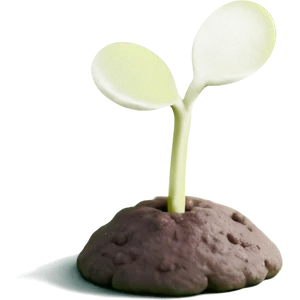
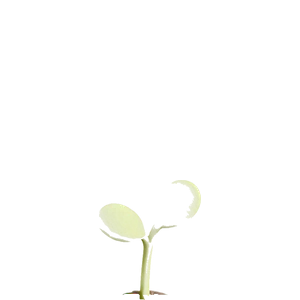
Crops grow in the beds the plate draws: measured bed grid, mound-free sprites, a row of three per bed
- the bed grid was rotated against farm-v1.webp (four beds along the plate's short edge); T, E1, E2 are now fitted to the
  twelve soil centres measured from the plate (within 0.7 of each), and she tends a bed from the nearer front edge, with
  a tie going right because the basket sits at the front-left corner (Jamie, 22 Oct: "it doesnt tally to the bed")
- the stage sprites lose their own soil mound (largest brown blob cut on its wide rows, rim and soil texture below the
  old mound line removed, only plant-connected pixels kept), are scaled by stage and bottom-aligned at the stem's foot
- each planted bed shows a row of three along its long side, beds drawn back to front; a soft dimple, the wet patch and
  weeds sit at the plants' feet; the bed card shows the same row on a soil patch
- Codex P2: completed cycle milestones read dark plum on their pale gradient; P3: journal.html's provenance badge keeps
  its .srcchip selector; the sign-in wall test checks daytime colours hold after sunset

diff --git a/ovu-farm.js b/ovu-farm.js
@@ -33,14 +33,17 @@
     shelf: { name: 'Seed shelf', note: '5 free seeds a day.', cost: 150, icon: 'shelves' },
     bigcan: { name: 'Big watering can', note: 'Waters every bed at once.', cost: 120, icon: 'water_drop' }
   };
-  /* the bed grid on the plate: corner A (left), B (top), C (right); four beds along AB, three along BC */
-  var A = { x: 24, y: 53 }, B = { x: 51, y: 41 }, C = { x: 81, y: 54 };
-  function bedAt(i, j) { var u = (i + 0.5) / 4, v = (j + 0.5) / 3; return { x: round(A.x + u * (B.x - A.x) + v * (C.x - B.x)), y: round(A.y + u * (B.y - A.y) + v * (C.y - B.y)) }; }
-  /* she tends a bed from the slab's margin: the front-left edge for the beds nearer it, the front-right edge otherwise */
+  /* the bed grid as the plate draws it (measured from farm-v1.webp's soil, 22 Oct: Jamie, "it doesnt tally to the bed"):
+     four beds run from the top bed down to the right (i), three from the top bed down to the left (j). T is the top bed's
+     soil centre, E1 one bed along i, E2 one bed along j, all in plate percent; the fit is within 0.7 of every measured centre */
+  var T = { x: 48.72, y: 45.46 }, E1 = { x: 8.64, y: 3.72 }, E2 = { x: -7.83, y: 3.45 };
+  function at(u, v) { return { x: round(T.x + u * E1.x + v * E2.x), y: round(T.y + u * E1.y + v * E2.y) }; }
+  function bedAt(i, j) { return at(i, j); }
+  /* she tends a bed from the slab's margin: the front-left edge (past the last row along j) or the front-right edge (past
+     the last row along i), whichever is nearer; beds in one line share that stand */
   function standFor(i, j) {
-    var u = (i + 0.5) / 4, v = (j + 0.5) / 3;
-    if (i <= 2 - j) return { x: round(A.x - 0.3 * (B.x - A.x) + v * (C.x - B.x)), y: round(A.y - 0.3 * (B.y - A.y) + v * (C.y - B.y)), flip: false };
-    return { x: round(A.x + u * (B.x - A.x) + 1.24 * (C.x - B.x)), y: round(A.y + u * (B.y - A.y) + 1.24 * (C.y - B.y)), flip: true };
+    if (2 - j < 3 - i) { var p = at(i, 2.95); return { x: p.x, y: p.y, flip: false }; } /* a tie goes right: the basket sits at the front-left corner */
+    var q = at(3.95, j); return { x: q.x, y: q.y, flip: true };
   }
   function round(n) { return Math.round(n * 10) / 10; }
   var BEDS = []; for (var jj = 0; jj < 3; jj++) for (var ii = 0; ii < 4; ii++) BEDS.push({ id: 'bed' + (jj * 4 + ii + 1), i: ii, j: jj, at: bedAt(ii, jj), wp: standFor(ii, jj) });
@@ -259,22 +262,25 @@
   function cropSprite(k, st) { return st >= 3 ? k + '-ripe' : st === 2 ? k + '-grow' : 'seedling'; }
   function bedArt(b, id, day) {
     var st = stage(b), weeds = hasWeeds(b, id, day), wet = wateredToday(b, day), crop = b && b.crop ? CROPS[b.crop] : null;
-    var s = crop && st >= 1 ? '<img class="bedcrop" src="assets/room/farm/crops/' + cropSprite(b.crop, st) + '.webp" alt="" draggable="false">' : '';
-    s += '<svg class="bedover" viewBox="0 0 100 100" xmlns="http://www.w3.org/2000/svg" aria-hidden="true">';
-    if (wet) s += '<ellipse cx="50" cy="91" rx="34" ry="8" fill="rgba(70,50,120,.22)"/>';
-    if (weeds) { [22, 48, 74].forEach(function (x) { s += '<path d="M' + x + ' 94 c -4 -8, -2 -14, 2 -18 M' + x + ' 94 c 4 -8, 7 -12, 10 -14 M' + x + ' 94 c -1 -10, 3 -16, 5 -20" stroke="#6f9a62" stroke-width="3" fill="none" stroke-linecap="round"/>'; }); }
-    return s + '</svg>';
+    /* three plants in a row along the bed (its long side runs along E1), drawn back to front */
+    var s = '';
+    if (crop && st >= 1) [['back', -1], ['mid', 0], ['front', 1]].forEach(function (k) { s += '<img class="bedcrop ' + k[0] + '" src="assets/room/farm/crops/' + cropSprite(b.crop, st) + '.webp" alt="" draggable="false">'; });
+    var o = '<svg class="bedover" viewBox="0 0 100 100" xmlns="http://www.w3.org/2000/svg" aria-hidden="true">';
+    if (crop && st >= 1) o += '<ellipse cx="50" cy="99" rx="' + (st >= 3 ? 26 : st === 2 ? 20 : 12) + '" ry="' + (st >= 3 ? 6 : 4.5) + '" fill="rgba(74,40,30,.28)"/>';
+    if (wet) o += '<ellipse cx="50" cy="99" rx="38" ry="8" fill="rgba(70,50,120,.22)"/>';
+    if (weeds) { [18, 50, 82].forEach(function (x) { o += '<path d="M' + x + ' 100 c -4 -8, -2 -14, 2 -18 M' + x + ' 100 c 4 -8, 7 -12, 10 -14 M' + x + ' 100 c -1 -10, 3 -16, 5 -20" stroke="#6f9a62" stroke-width="3" fill="none" stroke-linecap="round"/>'; }); }
+    return o + '</svg>' + s;
   }
   function renderBeds() {
     if (!inFarm(R.layout())) return;
     var wrap = R.els.props, day = today();
     Array.prototype.slice.call(wrap.querySelectorAll('.bed')).forEach(function (el) { el.remove(); });
     var f = farmState(S);
-    BEDS.forEach(function (bb) {
+    BEDS.slice().sort(function (a, b) { return a.at.y - b.at.y; }).forEach(function (bb) {
       var el = doc.createElement('button'); el.type = 'button'; el.className = 'bed'; el.dataset.id = bb.id;
       var b = f.beds[bb.id], label = 'Bed ' + (BEDS.indexOf(bb) + 1) + ': ' + (b && b.crop ? CROPS[b.crop].name.toLowerCase() + (ripe(b) ? ', ripe' : ', growing, ' + growthDays(b) + ' of ' + CROPS[b.crop].days + ' watered days' + (wateredToday(b, day) ? ', watered today' : ', not watered today')) : 'empty');
       el.setAttribute('aria-label', label + (hasWeeds(b, bb.id, day) ? ', weeds' : ''));
-      el.style.left = bb.at.x + '%'; el.style.top = bb.at.y + '%'; el.style.width = '10.5%'; /* the sprite's mound fills most of the plate's bed */
+      el.style.left = bb.at.x + '%'; el.style.top = bb.at.y + '%'; el.style.width = '13%'; /* the middle plant's base sits on the bed's soil centre */
       el.innerHTML = bedArt(b, bb.id, day);
       el.addEventListener('click', function (e) { e.stopPropagation(); e.preventDefault(); goTend(bb); });
       wrap.appendChild(el);

diff --git a/room.css b/room.css
@@ -1666,8 +1666,9 @@ body.btap-open{overflow:hidden}
 @media (prefers-reduced-motion: reduce){.zonename,.nearpill,.gamehud .gh-stam b{transition:none}}
 
 /* ---------- the farm (ovu-farm.js): beds drawn on the plate, the bed and shed sheets ---------- */
-.bed{position:absolute;transform:translate(-50%,-86%);aspect-ratio:1;background:none;border:0;padding:0;cursor:pointer;pointer-events:auto;filter:drop-shadow(0 3px 4px rgba(70,40,100,.16))}
-.bed .bedcrop,.bedpic .bedcrop{position:absolute;left:0;bottom:0;width:100%;height:auto;display:block;pointer-events:none}
+.bed{position:absolute;transform:translate(-50%,-100%);aspect-ratio:1;background:none;border:0;padding:0;cursor:pointer;pointer-events:auto;filter:drop-shadow(0 3px 4px rgba(70,40,100,.16))}
+.bed .bedcrop,.bedpic .bedcrop{position:absolute;left:22.5%;bottom:0;width:55%;height:auto;display:block;pointer-events:none}
+.bed .bedcrop.back,.bedpic .bedcrop.back{left:2.5%;bottom:10.8%}.bed .bedcrop.front,.bedpic .bedcrop.front{left:42.5%;bottom:-10.8%}
 .bed .bedover,.bedpic .bedover{position:absolute;inset:0;width:100%;height:100%;display:block;overflow:visible;pointer-events:none}
 .bed:focus-visible{outline:2px solid #fff;outline-offset:2px;border-radius:10px}
 .bedcard{display:flex;gap:12px;align-items:center;background:var(--rm-card,#fff);border-radius:16px;padding:12px;margin-top:4px}
@@ -1692,7 +1693,8 @@ body.btap-open{overflow:hidden}
 .snapbtns + .help,.snapbtns ~ p.help{margin-top:12px;line-height:1.5}
 .phasechips{display:flex;flex-wrap:wrap;gap:8px;margin:4px 0 12px}
 /* the bed card shows soil, not a blank square */
-.bedcard .bedpic{background:linear-gradient(180deg,#f8f1fd,#efe4f7)}
+.bedcard .bedpic{overflow:hidden;background:radial-gradient(ellipse 46% 20% at 50% 74%,#8a5a44 0 62%,#6e4535 64% 100%,transparent 102%),linear-gradient(180deg,#f8f1fd,#efe4f7)}
+.bedpic .bedover{transform:translateY(-24%)}.bedpic .bedcrop{bottom:24%}.bedpic .bedcrop.back{bottom:33%}.bedpic .bedcrop.front{bottom:15%}
 
 /* plaza servers (ovu-plaza.js): a pill in screen space while she is in the plaza, and the chooser sheet */
 .plazapill{position:absolute;left:10px;top:12px;z-index:7;display:inline-flex;align-items:center;gap:6px;max-width:calc(100% - 120px);padding:7px 12px 7px 9px;border:1.5px solid rgba(255,255,255,.9);border-radius:99px;background:rgba(255,255,255,.86);backdrop-filter:blur(8px);box-shadow:0 4px 14px rgba(80,50,110,.14);font:800 12px var(--sans);color:var(--rm-ink);cursor:pointer}
@@ -2113,7 +2115,7 @@ html[data-text] :is(.deck,.nav,.sheet,.welcome,.toast,.mpanel,.podmini,.luna,.lo
 .ready .dots{display:flex;align-items:flex-start;justify-content:space-between;gap:6px;margin:4px 0 8px}
 .ready .dot{flex:1;display:flex;flex-direction:column;align-items:center;gap:4px;position:relative}
 .ready .dot i{width:40px;height:40px;border-radius:50%;border:2px solid #d9cdee;background:#fff;display:flex;align-items:center;justify-content:center;font:800 15px var(--sans);color:#a394bd;font-style:normal}
-.ready .dot.on i{background:linear-gradient(135deg,#c8a9ee,#e9b5d0);border-color:transparent;color:#fff}
+.ready .dot.on i{background:linear-gradient(135deg,#c8a9ee,#e9b5d0);border-color:transparent;color:#2a1d44} /* dark plum on the pale gradient (Codex, 22 Oct: white was under 2:1) */
 .ready .dot em{font:700 10px/1.2 var(--sans);font-style:normal;color:var(--rm-ink-2);text-align:center}
 .ready .dot+.dot::before{content:"";position:absolute;left:-50%;right:50%;top:20px;height:2px;background:#e4dbf2;z-index:-1}
 .ready p{margin:0;font:600 13px/1.45 var(--sans);color:var(--rm-ink)}

diff --git a/tools/test-core.js b/tools/test-core.js
@@ -548,7 +548,8 @@ function addDays(d, n) { var t = new Date(d + 'T00:00:00Z'); t.setUTCDate(t.getU
   var shown = F.waterAll(S, t, null, { can: true, ids: tg });
   check('watering all waters exactly the beds she was shown', shown.ok && shown.n === 2 && !F.wateredToday(F.bed(S, d2[1]), t) === (d2.length > 2 && d2[1] !== tg[1]) && F.wateredToday(F.bed(S, last), t) && F.canLevel(S) === 10);
   var src = fs.readFileSync(path.join(root, 'ovu-farm.js'), 'utf8');
-  check('farm beds draw rendered stage pictures (Jamie, 22 Oct: "aesthetic can be better and realistic"): a shared seedling, then every crop half grown and ripe exist as sprites, picked by stage; weeds and the water drop stay as an overlay', Object.keys(F.CROPS).every(function (k) { return fs.existsSync(path.join(root, 'assets/room/farm/crops', k + '-grow.webp')) && fs.existsSync(path.join(root, 'assets/room/farm/crops', k + '-ripe.webp')); }) && fs.existsSync(path.join(root, 'assets/room/farm/crops/seedling.webp')) && F.cropSprite('tomato', 1) === 'seedling' && F.cropSprite('tomato', 2) === 'tomato-grow' && F.cropSprite('tomato', 3) === 'tomato-ripe' && /class="bedcrop" src="assets\/room\/farm\/crops\/' \+ cropSprite\(b\.crop, st\)/.test(src) && /class="bedover"/.test(src) && /if \(weeds\)/.test(src) && /if \(wet\)/.test(src) && src.indexOf('bedSVG') < 0);
+  check('Codex (22 Oct, after the night palette went): completed cycle milestones read dark on their pale gradient, and the journal provenance badge keeps its own selector', /\.ready \.dot\.on i\{[^}]*color:#2a1d44\}/.test(fs.readFileSync(path.join(root, 'room.css'), 'utf8')) && /\}\.srcchip\{/.test(fs.readFileSync(path.join(root, 'journal.html'), 'utf8')) && !/html\.srcchip/.test(fs.readFileSync(path.join(root, 'journal.html'), 'utf8')));
+  check('farm beds draw rendered stage pictures (Jamie, 22 Oct: "aesthetic can be better and realistic"): a shared seedling, then every crop half grown and ripe exist as sprites, picked by stage; weeds and the water drop stay as an overlay', Object.keys(F.CROPS).every(function (k) { return fs.existsSync(path.join(root, 'assets/room/farm/crops', k + '-grow.webp')) && fs.existsSync(path.join(root, 'assets/room/farm/crops', k + '-ripe.webp')); }) && fs.existsSync(path.join(root, 'assets/room/farm/crops/seedling.webp')) && F.cropSprite('tomato', 1) === 'seedling' && F.cropSprite('tomato', 2) === 'tomato-grow' && F.cropSprite('tomato', 3) === 'tomato-ripe' && /class="bedcrop ' \+ k\[0\] \+ '" src="assets\/room\/farm\/crops\/' \+ cropSprite\(b\.crop, st\)/.test(src) && /class="bedover"/.test(src) && /if \(weeds\)/.test(src) && /if \(wet\)/.test(src) && src.indexOf('bedSVG') < 0);
   check('the bed sheet waters from the can, with the well one tap away when it is empty', src.indexOf("res = pour(S, id, t, ST)") > -1 && src.indexOf('data-bed="well"') > -1 && src.indexOf('Fill the can at the well') > -1 && src.indexOf("res = water(S, id, now)") < 0);
   check('care steps are slow and stoppable, and save only when the bar is full and the sheet still open', (function () { var care = fs.readFileSync(path.join(root, 'ovu-care.js'), 'utf8'); return /function step[\s\S]*?!box\.isConnected \|\| !R\.sheetOpen\(\) \|\| here\(\) !== tok\.scene[\s\S]*?asleepNow\(\)/.test(care) && care.indexOf('data-slow="stop"') > -1 && src.indexOf("scene: 'farm'") > -1; })() && true);
 })();

diff --git a/journal.html b/journal.html
@@ -10,7 +10,7 @@
 <link href="https://fonts.googleapis.com/css2?family=Newsreader:opsz,wght@6..72,400;6..72,500;6..72,600&family=Manrope:wght@400;600;700;800&family=Material+Symbols+Outlined:opsz,wght,FILL,GRAD@24,400,0..1,0" rel="stylesheet">
 <link rel="stylesheet" href="ovu-pages.css">
 <link rel="stylesheet" href="ovu-night.css">
-<style>.carecard{margin:10px 0;padding:14px;border-radius:16px;background:#fff4f6;border:1.5px solid #e8a0b4;color:#4a2b3a;font:600 13.5px/1.5 var(--sans,Manrope,sans-serif)}.carecard b{display:block;font-size:15px;margin-bottom:4px}.carecard p{margin:6px 0}.carecard .row{display:flex;flex-wrap:wrap;gap:8px;margin:8px 0}.carecard small{display:block;opacity:.8;font-size:11.5px}html.srcchip{display:inline-block;margin-left:6px;vertical-align:1px;font:800 9px var(--sans,Manrope,sans-serif);letter-spacing:.05em;text-transform:uppercase;font-style:normal;color:var(--rm-plum,#5a4274);background:var(--rm-lilac-2,#e7dcf5);border-radius:99px;padding:2px 7px}</style>
+<style>.carecard{margin:10px 0;padding:14px;border-radius:16px;background:#fff4f6;border:1.5px solid #e8a0b4;color:#4a2b3a;font:600 13.5px/1.5 var(--sans,Manrope,sans-serif)}.carecard b{display:block;font-size:15px;margin-bottom:4px}.carecard p{margin:6px 0}.carecard .row{display:flex;flex-wrap:wrap;gap:8px;margin:8px 0}.carecard small{display:block;opacity:.8;font-size:11.5px}.srcchip{display:inline-block;margin-left:6px;vertical-align:1px;font:800 9px var(--sans,Manrope,sans-serif);letter-spacing:.05em;text-transform:uppercase;font-style:normal;color:var(--rm-plum,#5a4274);background:var(--rm-lilac-2,#e7dcf5);border-radius:99px;padding:2px 7px}</style>
 <script src="ovu-sky.js"></script>
 </head>
 <body>

diff --git a/tools/e2e_smoke.py b/tools/e2e_smoke.py
@@ -990,8 +990,8 @@ async def main():
             check("a fresh visitor meets the sign-in wall: the logo where the moon was, Apple, Google and email, no Let's begin, the notice not yet shown, nothing saved", fresh["welcome"] and not fresh["moon"] and fresh["logo"] == 512 and fresh["buttons"] == ["Sign in with Apple", "Sign in with Google", "Sign in with email"] and not fresh["begin"] and fresh["consent"] and (fresh["db"] is None or '"consent"' not in fresh["db"]) and "Sign in to open it" in fresh["note"], fresh)
             foc = await p2.evaluate("()=>({inert: document.querySelector('#main').inert === true && document.querySelector('nav.nav').inert === true && document.querySelector('#sheet').inert === true, focusIn: !!(document.activeElement && document.activeElement.closest('#welcome')), role: document.querySelector('#welcome').getAttribute('role'), modal: document.querySelector('#welcome').getAttribute('aria-modal'), loading: document.querySelector('#loading').classList.contains('hidden')})")
             check("while the wall is up the room behind it is inert to keys and screen readers, focus sits in the wall, the wall is a modal dialog, and the loading veil has lifted", foc["inert"] and foc["focusIn"] and foc["role"] == "dialog" and foc["modal"] == "true" and foc["loading"], foc)
-            wn = await p2.evaluate("()=>{var h=document.documentElement,was=h.getAttribute('data-sky');h.setAttribute('data-sky','night');var c=getComputedStyle(document.querySelector('#wSignIn')).color, g=getComputedStyle(document.querySelector('#wGoogle')).backgroundColor;if(was===null)h.removeAttribute('data-sky');else h.setAttribute('data-sky',was);return {c:c,g:g}}")
-            check("after sunset the wall's lighter buttons keep dark plum text and the Google button stays white", wn["c"] == "rgb(90, 66, 116)" and wn["g"] == "rgb(255, 255, 255)", wn)
+            wn = await p2.evaluate("()=>{var h=document.documentElement,was=h.getAttribute('data-sky');h.setAttribute('data-sky','day');var dc=getComputedStyle(document.querySelector('#wSignIn')).color;h.setAttribute('data-sky','night');var c=getComputedStyle(document.querySelector('#wSignIn')).color, g=getComputedStyle(document.querySelector('#wGoogle')).backgroundColor;if(was===null)h.removeAttribute('data-sky');else h.setAttribute('data-sky',was);var m=c.match(/\\d+/g).map(Number);return {c:c,dc:dc,g:g,dark:(m[0]+m[1]+m[2])/3<130}}")
+            check("after sunset the wall keeps its daytime colours (the night palette is retired): the lighter buttons' plum text is the same and dark, the Google button stays white", wn["c"] == wn["dc"] and wn["dark"] and wn["g"] == "rgb(255, 255, 255)", wn)
             await p2.goto(BASE + "journal.html", wait_until="load"); await p2.wait_for_timeout(600)
             check("a fresh visitor on another page is sent to the room first", p2.url.endswith("room.html"), p2.url)
             await p2.goto(BASE + "room.html", wait_until="networkidle"); await p2.wait_for_timeout(700)
